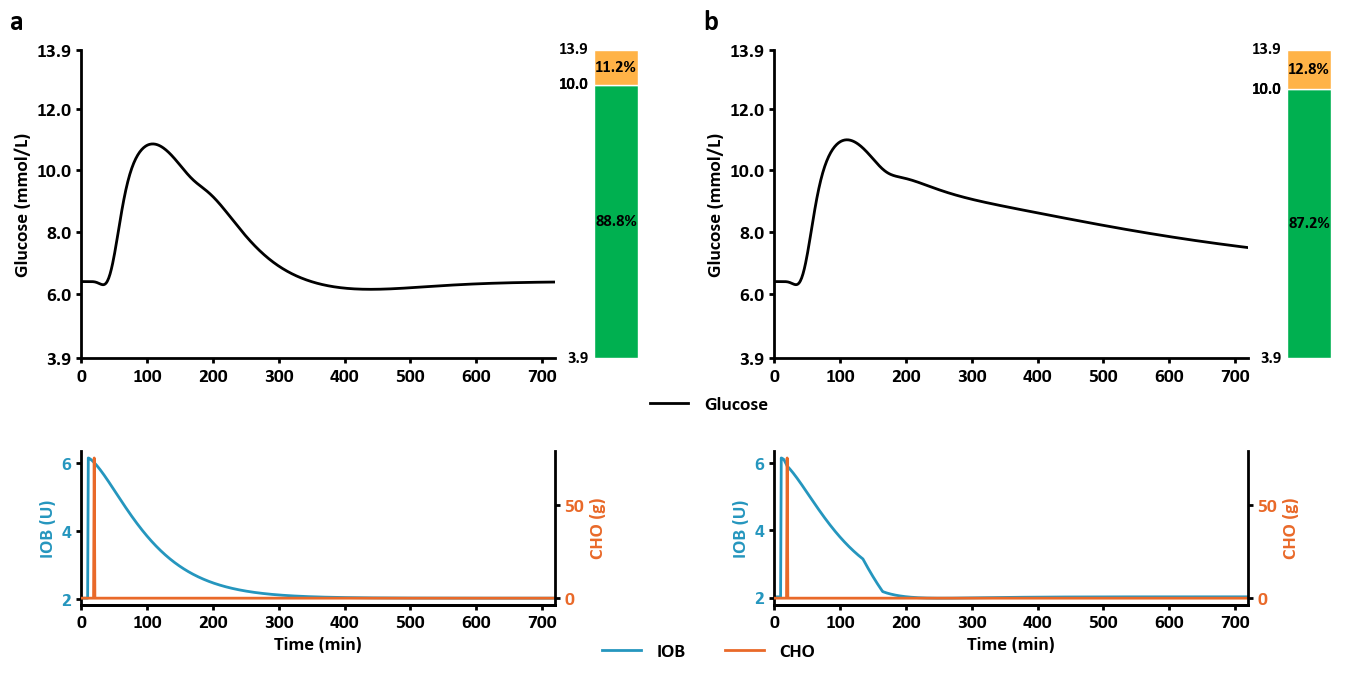
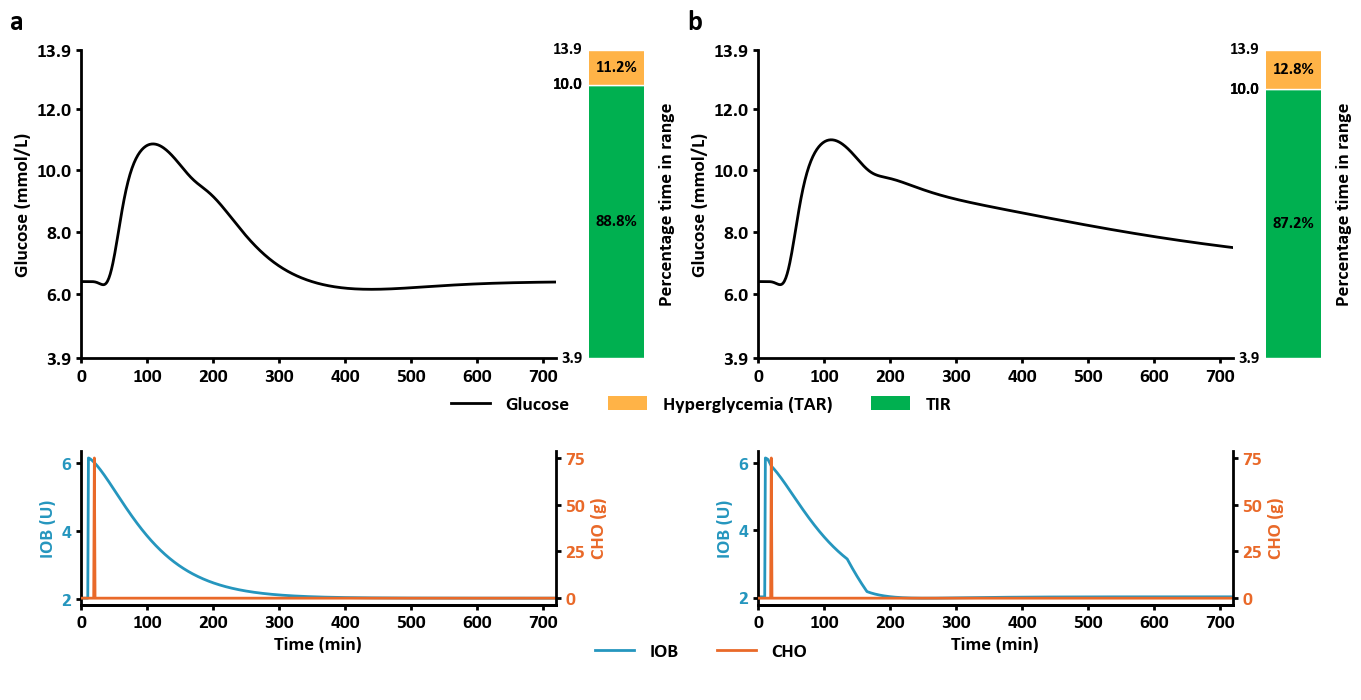
feat(plot): enhance time-in-range visualization and update legends

diff --git a/paper_figure_generation/patient_controller_comparison/plot.py b/paper_figure_generation/patient_controller_comparison/plot.py
@@ -9,6 +9,7 @@ from enum import Enum
 from pathlib import Path
 import matplotlib.pyplot as plt
 from matplotlib import gridspec
+from matplotlib.patches import Patch
 import matplotlib as mpl
 
 # Set Calibri font globally
@@ -447,6 +448,17 @@ def _plot_time_in_range_scale(scale_ax, time_in_range, tir_config: TIRConfig):
         time_in_range: Dict with time in range statistics (using TIRCategory enum as keys)
         tir_config: TIRConfig instance to use for getting thresholds and order
     """
+    # Layout parameters (tune these values as needed)
+    BAR_WIDTH = 6.0
+    BAR_X_POSITION = 1.5
+    THRESHOLD_LABEL_OFFSET = 0.1
+    TITLE_OFFSET = 0.8
+    X_LIMIT_LEFT = -1.0
+    X_LIMIT_RIGHT = 4.0
+    LABEL_FONTSIZE = 12
+    THRESHOLD_FONTSIZE = 12
+    TITLE_FONTSIZE = 14
+
     # Remove all spines and ticks
     for spine in scale_ax.spines.values():
         spine.set_visible(False)
@@ -457,8 +469,6 @@ def _plot_time_in_range_scale(scale_ax, time_in_range, tir_config: TIRConfig):
     thresholds = tir_config.get_thresholds()
 
     # Create vertical stacked bar
-    x_position = 0
-    bar_width = 0.8
     bottom = 0
 
     # Draw each segment in specified order
@@ -468,10 +478,10 @@ def _plot_time_in_range_scale(scale_ax, time_in_range, tir_config: TIRConfig):
             if percentage > 0:  # Only draw if percentage > 0
                 color = tir_config.get_color(category)
                 scale_ax.bar(
-                    x_position,
+                    BAR_X_POSITION,
                     percentage,
                     bottom=bottom,
-                    width=bar_width,
+                    width=BAR_WIDTH,
                     color=color,
                     edgecolor="white",
                     linewidth=1,
@@ -479,14 +489,14 @@ def _plot_time_in_range_scale(scale_ax, time_in_range, tir_config: TIRConfig):
 
                 # Add text label (centered inside bar segment)
                 scale_ax.text(
-                    x_position,
+                    BAR_X_POSITION,
                     bottom + percentage / 2,
                     f"{percentage:.1f}%",
                     ha="center",
                     va="center",
                     color="black",
                     fontweight="bold",
-                    fontsize=12,
+                    fontsize=LABEL_FONTSIZE,
                 )
 
                 bottom += percentage
@@ -501,12 +511,12 @@ def _plot_time_in_range_scale(scale_ax, time_in_range, tir_config: TIRConfig):
                 if category != TIRCategory.VERY_LOW:  # Don't show 0 at the bottom
                     threshold_mmol = thresholds[category] / 18.0
                     scale_ax.text(
-                        x_position - bar_width / 2 - 0.1,
+                        BAR_X_POSITION - BAR_WIDTH / 2 - THRESHOLD_LABEL_OFFSET,
                         cumulative_height,
                         f"{threshold_mmol:.1f}",
                         ha="right",
                         va="center",
-                        fontsize=12,
+                        fontsize=THRESHOLD_FONTSIZE,
                         color="black",
                     )
                 cumulative_height += percentage
@@ -518,17 +528,29 @@ def _plot_time_in_range_scale(scale_ax, time_in_range, tir_config: TIRConfig):
                     # Always show the threshold, regardless of whether next section exists
                     threshold_mmol = thresholds[next_category] / 18.0
                     scale_ax.text(
-                        x_position - bar_width / 2 - 0.1,
+                        BAR_X_POSITION - BAR_WIDTH / 2 - THRESHOLD_LABEL_OFFSET,
                         cumulative_height,
                         f"{threshold_mmol:.1f}",
                         ha="right",
                         va="center",
-                        fontsize=12,
+                        fontsize=THRESHOLD_FONTSIZE,
                         color="black",
                     )
 
+    # Add rotated "Percentage time in range" text on the right side
+    scale_ax.text(
+        BAR_X_POSITION + BAR_WIDTH / 2 + TITLE_OFFSET,
+        50,
+        "Percentage time in range",
+        ha="left",
+        va="center",
+        fontsize=TITLE_FONTSIZE,
+        color="black",
+        rotation=90,
+    )
+
     # Set axis limits for vertical bar
-    scale_ax.set_xlim(-0.5, 0.5)
+    scale_ax.set_xlim(X_LIMIT_LEFT, X_LIMIT_RIGHT)
     scale_ax.set_ylim(0, 100)
 
 
@@ -873,6 +895,7 @@ def _plot_cho_iob_no_legend(ax, t, CHO, IOB):
     line2 = ax2.plot(t, CHO, color=cho_color, linestyle="-", linewidth=2, label="CHO")
     ax2.set_ylabel("CHO (g)", color=cho_color)
     ax2.tick_params(axis="y", labelcolor=cho_color)
+    ax2.set_yticks([0, 25, 50, 75])
     ax2.spines["top"].set_visible(False)
     ax2.spines["left"].set_visible(False)
 
@@ -904,7 +927,7 @@ def _create_comparison_figure_with_tir(
     # Layout rows: [BG plots, BG legend, IOB plots, IOB legend]
     # Layout cols: [left_plot, left_tir, gap, right_plot, right_tir]
     fig_height = plot_height + iob_height + legend_height * 2
-    gap_width = 0.8
+    gap_width = 0.6
     total_width = plot_width * 2 + tir_width * 2 + gap_width + 2
 
     fig = plt.figure(figsize=(total_width, fig_height))
@@ -973,15 +996,22 @@ def _create_comparison_figure_with_tir(
         ha="left",
     )
 
-    # Glucose legend below glucose plots
+    # Glucose legend below glucose plots with TIR color indicators
     bg_handle = ax_bg_left.get_legend_handles_labels()[0]
+    tir_patches = [
+        Patch(
+            facecolor=tir_config.get_color(TIRCategory.HIGH),
+            label="Hyperglycemia (TAR)",
+        ),
+        Patch(facecolor=tir_config.get_color(TIRCategory.TARGET), label="TIR"),
+    ]
     ax_legend_bg.legend(
-        bg_handle,
-        ["Glucose"],
+        bg_handle + tir_patches,
+        ["Glucose", "Hyperglycemia (TAR)", "TIR"],
         loc="center",
         frameon=False,
         fontsize=14,
-        ncol=1,
+        ncol=3,
     )
 
     # IOB/CHO legend below IOB plots
